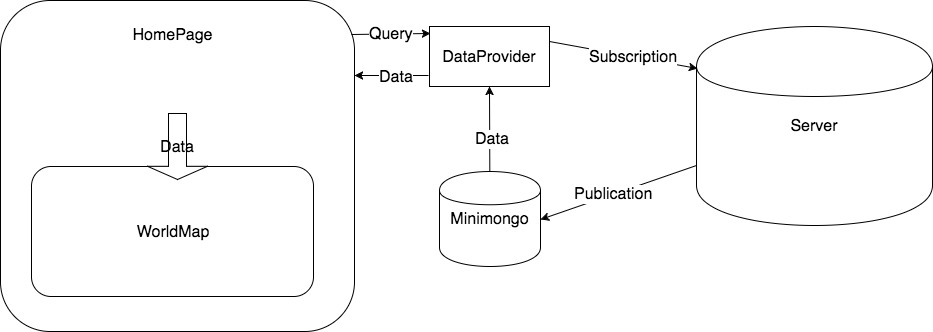
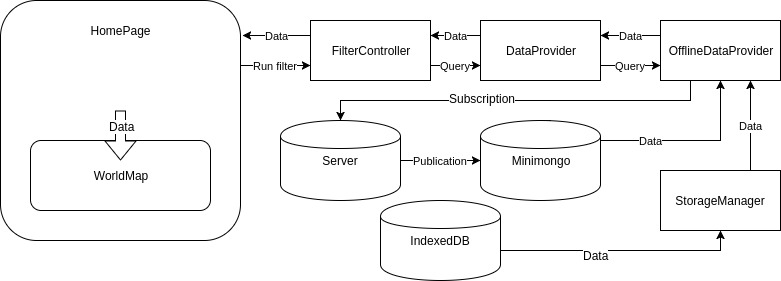
update documentation

diff --git a/docs/README.md b/docs/README.md
@@ -12,9 +12,11 @@ The app is split into to 2 parts, client and server, they communicate through [D
 ## General functionality overview by page
 1. Home - this page contains a world map with business data, filters for that data and a table that agregates data about particular business unit. Those are main instruments which a user works with.
 2. Settings - this page contains several sections.
-   * Preferences - here a user can configure how the data will be displayed on the map and also load business data into the application.
-   * Profile settings - here a user can change password.
+   * Preferences - here a user can configure how the data will be displayed on the map.
+   * Profile settings - here an user can change password.
    * User list - this section is only for the administrator so that he can add, delete and edit members/users.
+   * Data - here you can upload business data into the application and download data on a device.
+   * Info - This page contains information about application version and last data upload.
 3. Sign in - The name speaks for itself, page for entering the system.
 # Client
 Now we will go through all the pages and investigate how our application works on a level of angular components and services. We will only consider main elements and ignore less important ones.
@@ -22,11 +24,10 @@ Now we will go through all the pages and investigate how our application works o
 Three main entities can be outlined: map, filter and tables.
 Home page is presented though a HomePage component.
 ### Map
-The entity of the map is represented in angular component WorldMap. It uses library d3 in order to render a map and business units in SVG. WorldMap receives data that needs to be render from a parent component HomePage through HTML attribute “data-to-render”. HomePage in its turn receives that data from the DataProvider service.
-DataProvider is responsible for providing data from the server by mogoDB request. Here is what it looks like schematically.
+The entity of the map is represented in angular component WorldMap. It uses library d3 in order to render a map and business units in SVG. WorldMap receives data that needs to be rendered from a parent component HomePage through HTML attribute “data-to-render”. HomePage in its turn receives that data from the chain of services. Here is what it looks like schematically.
 ![Map](img/2.jpg)
 ### Filter
-Filter is presented with 3 components and one service - MainFilter, BuFilter, CtegoryFilter and FilterController. All of these parts work together in order to form mongodb request and pass it to its service DataProvider that returns data into HomePage.
+Filter is presented with 3 components and one service - MainFilter, BuFilter, CtegoryFilter and FilterController. All of these parts work together in order to form mongodb request and pass it to its service DataProvider that returns data.
 ![Filter](img/3.jpg)
 ### Tables
 Tables represented by two components Overview and Factsheet and one service SheetsController.
@@ -35,35 +36,47 @@ Tables represented by two components Overview and Factsheet and one service Shee
 2. Factsheet - On click of “factsheet” of a component Overview closes and SheetController creates a component Factsheet that also receives a new object DataProvider and all the data that it requires from it. Schematically it looks as follows:
 ![Factsheet](img/5.jpg)
 ## Settings page
-This page is presented by PreferencesPage component. This component uses Ionic Tabs to show three sections: Preferences, Profile, Settings and User list.
+This page is presented by PreferencesPage component. This component uses Ionic Tabs to show five sections: Preferences, Profile settings, User list, Data and Info.
 ![Settings](img/6.jpg)
 ### Preferences
 This section is represented by SwitchersPage, that in its turn contains component MapSwitchers. This component contains a set of triggers, that adjusts the showing of BU on WorldMap and SwitchersPage interact through their parent components. They (parent components) in their turn pass an object with settings from one to another through LocalStorage. This allows not to reset settings when finishing working with the application.
 ![Preferences](img/7.jpg)
-Also SwitchersPage contains buttons for uploading coordinates and business data to the server.Loading is carried out with the help of PickFile component and service DataUploader.
-![Upload](img/8.jpg)
+
 ### Profile settings
 This section represents ProfileSettingsPage component and ProfileSettings service. This component contains form where a user can enter his/her new password. Data from a form comes to ProfileSettings service and  through Meteor
  ProfileSettings passes the data to the server where password chnges.
+ ![ProfileSettings](img/9.jpg)
+ 
 ### Users list
 This section is only available to the administrator. Main part of it are components UserManagementPage, CreateUserPage, EditUserPage and services UsersController and PopoverController. UserManagementPage received a list from UsersController and renders them in a list. You can select a user from the list and call 2 actions upon it, edit or delete. Also you can add a new user. When editing PopoverController opens a new modal window which contains a EditUserPage component. In order to change data EditUserPage calls UsersController service which in its turn connects to the server (through meteor methods) where the the user data is changed. The modal window also opens when creating a new user, but with a CreateUserPage component, that uses UsersController as well. Deletion of a user is too carried out through UsersController
+![Users](img/10.jpg)
 
+### Data
+This tab is represented by UploadDataPage. That contains buttons for uploading coordinates and business data to the server. Loading is carried out with the help of PickFile component and service DataUploader. Also UploadDataPage component uses StorageManager service to download all business data into the device.
+![Data](img/15.jpg)
 
-
+### Info
+Here we have one InfoPage component and DataUpdateInfo service. These objects work together to show application information.
 
 # Server
 In the previos section we looked at how our app works on the client, now it is time to have a look at what goes on in the server.We will be following the same order as in “Client” paragraph.
 ## Home page
 As you may have noticed all the data that we use on HomePage, we take from DataProvider service. In order for DataProvider to be able to receive that data there is a collection with BusinessData data on the server that provides access to client through subscription to the data from our collection. Publication “businessData” receives parameters mongoQuery object, choses data that match what is in mongoQuery object and returns this data with DDP method.
+![HomePage](img/11.jpg)
 ## Settings page
-### Preferences
-Since settings of the map are not saved on the server, lets go on to the upload process. We have 2 methods  “data.upload” and “data.uploadCoordinates”. Method “data.upload” receives file data from the client and starts paralel process. In this process data is calculated and added to BusinessData collection. Then a paralel process ends and the work continues in the  “data.upload” method. Some additional data is generated and entered into related collections.
-
-
-
-Now lets move on to “data.uploadCoordinates” method which is even easier. The method receives data from file and simply writes them into the collection GeoCoordinates. here is what it looks like:
-
 ### Profile settings
 Here we use standard meteor metheod Accounts.cahngePassword
 ### Users list
 We have 3 methods for work with users ‘users.create’, ‘users.update’ and ‘users.remove’ all of them are accessible only to administrator and use a standard collection Meteor.users. In order for administrator to be able to view collection of users on the client we publish that data through “users” publication. “users” publication receives paramenters limit and count. These 2 parameters are for pagination.
+![Users](img/14.jpg)
+### Data
+We have 2 methods  “data.upload”, “data.uploadCoordinates” and "date.fetch". Method “data.upload” receives file data from the client and starts paralel process. In this process data is calculated and added to BusinessData collection. Then a paralel process ends and the work continues in the  “data.upload” method. Some additional data is generated and entered into related collections.
+![UploadBusinessData](img/12.jpg)
+
+Now lets move on to “data.uploadCoordinates” method which is even easier. The method receives data from file and simply writes them into the collection GeoCoordinates. here is what it looks like:
+![UploadCoords](img/13.jpg)
+
+The last method "data.fetch" pull and encrypt all necessary data for offline mode.
+![FetchData](img/16.jpg)
+### Info
+Here we have only one publication DataUpdates which provide data about last update.
